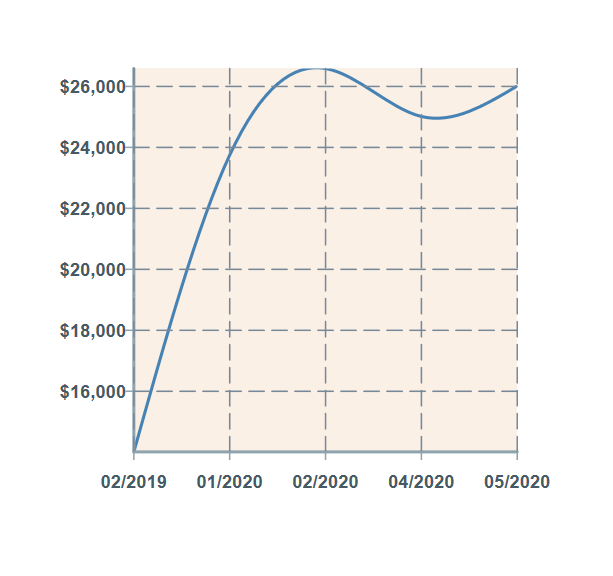
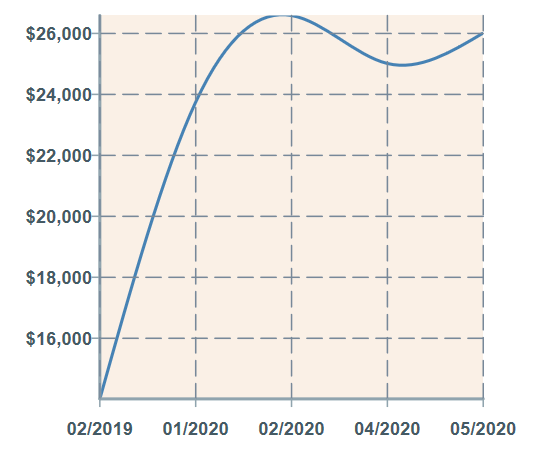
More preview image madness

diff --git a/public/index.html b/public/index.html
@@ -11,8 +11,8 @@
     />
     <meta property="og:title" content="Nostro Futuro"/>
     <meta property="og:image" content="https://yellow-bush-01164711e.azurestaticapps.net/nostropreviewb.png"/>
-    <meta property="og:image:width" content="613"/>
-    <meta property="og:image:height" content="576"/>
+    <meta property="og:image:width" content="540"/>
+    <meta property="og:image:height" content="452"/>
     <meta property="og:description" content="Platforms and applications that aim to harness technology to create markets and facilitate fair contests as well as to predict prices, sports, media and celebrity."/>
     <link rel="apple-touch-icon" href="https://yellow-bush-01164711e.azurestaticapps.net/logo192.png" />
     <!--
